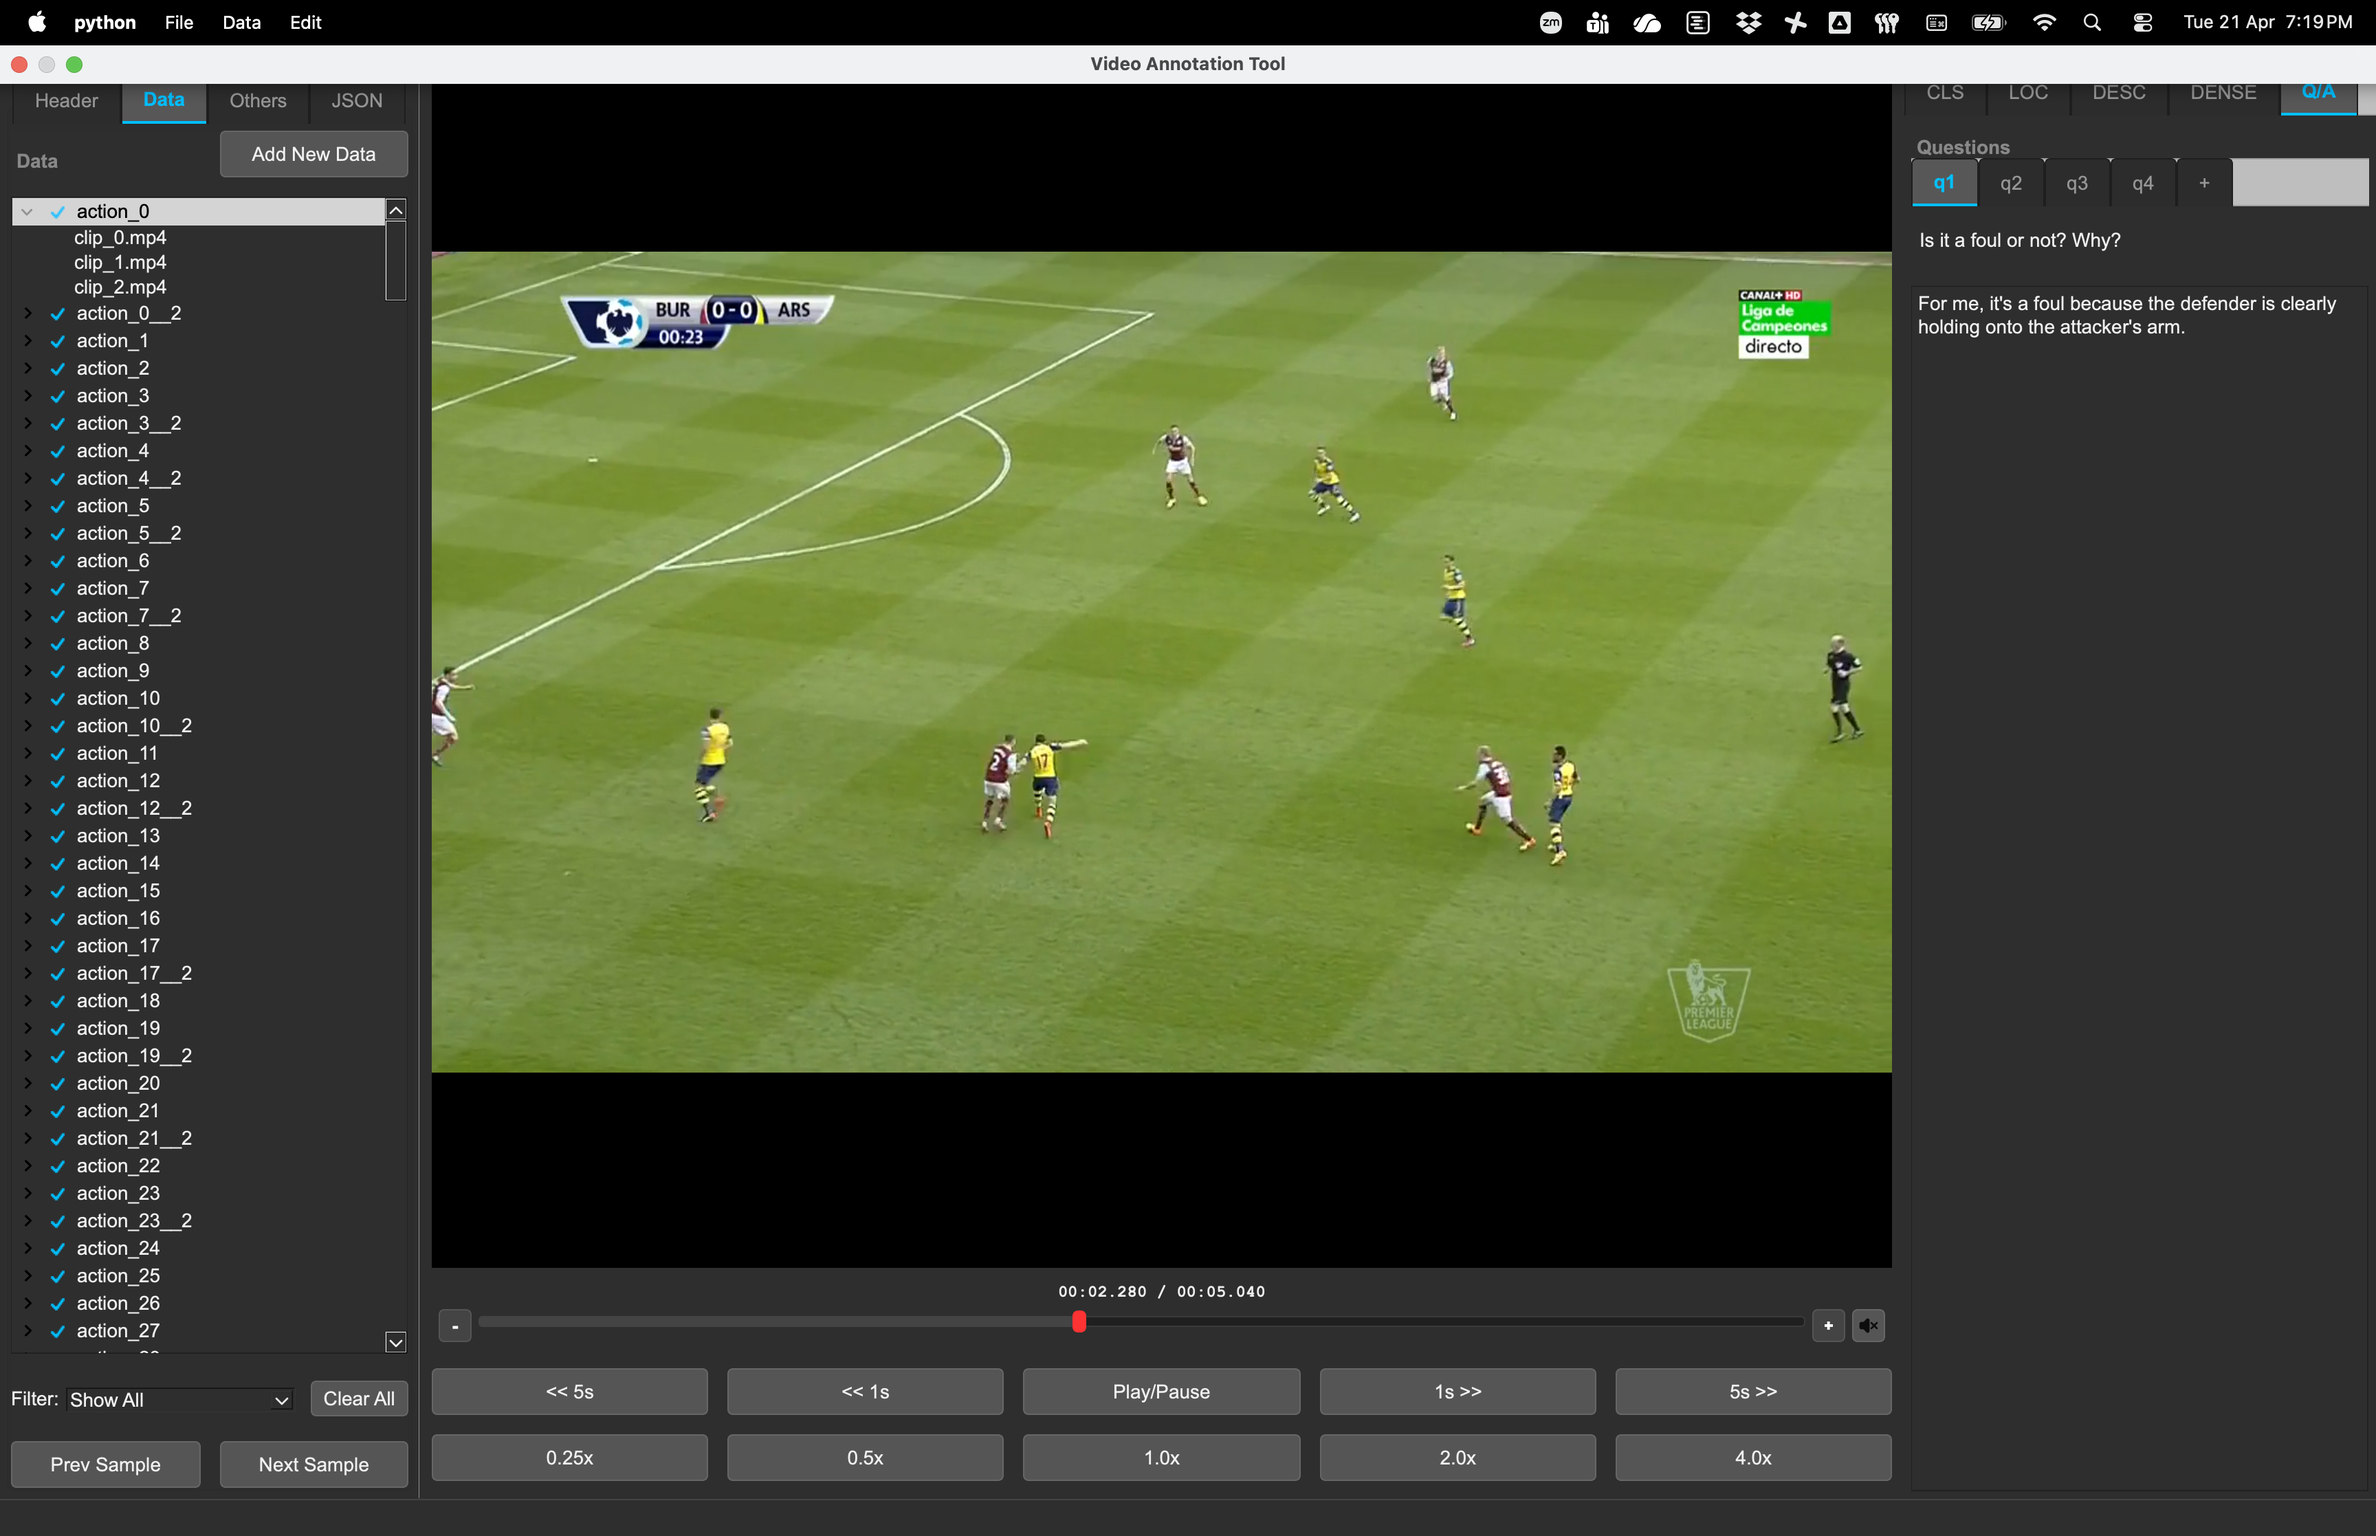
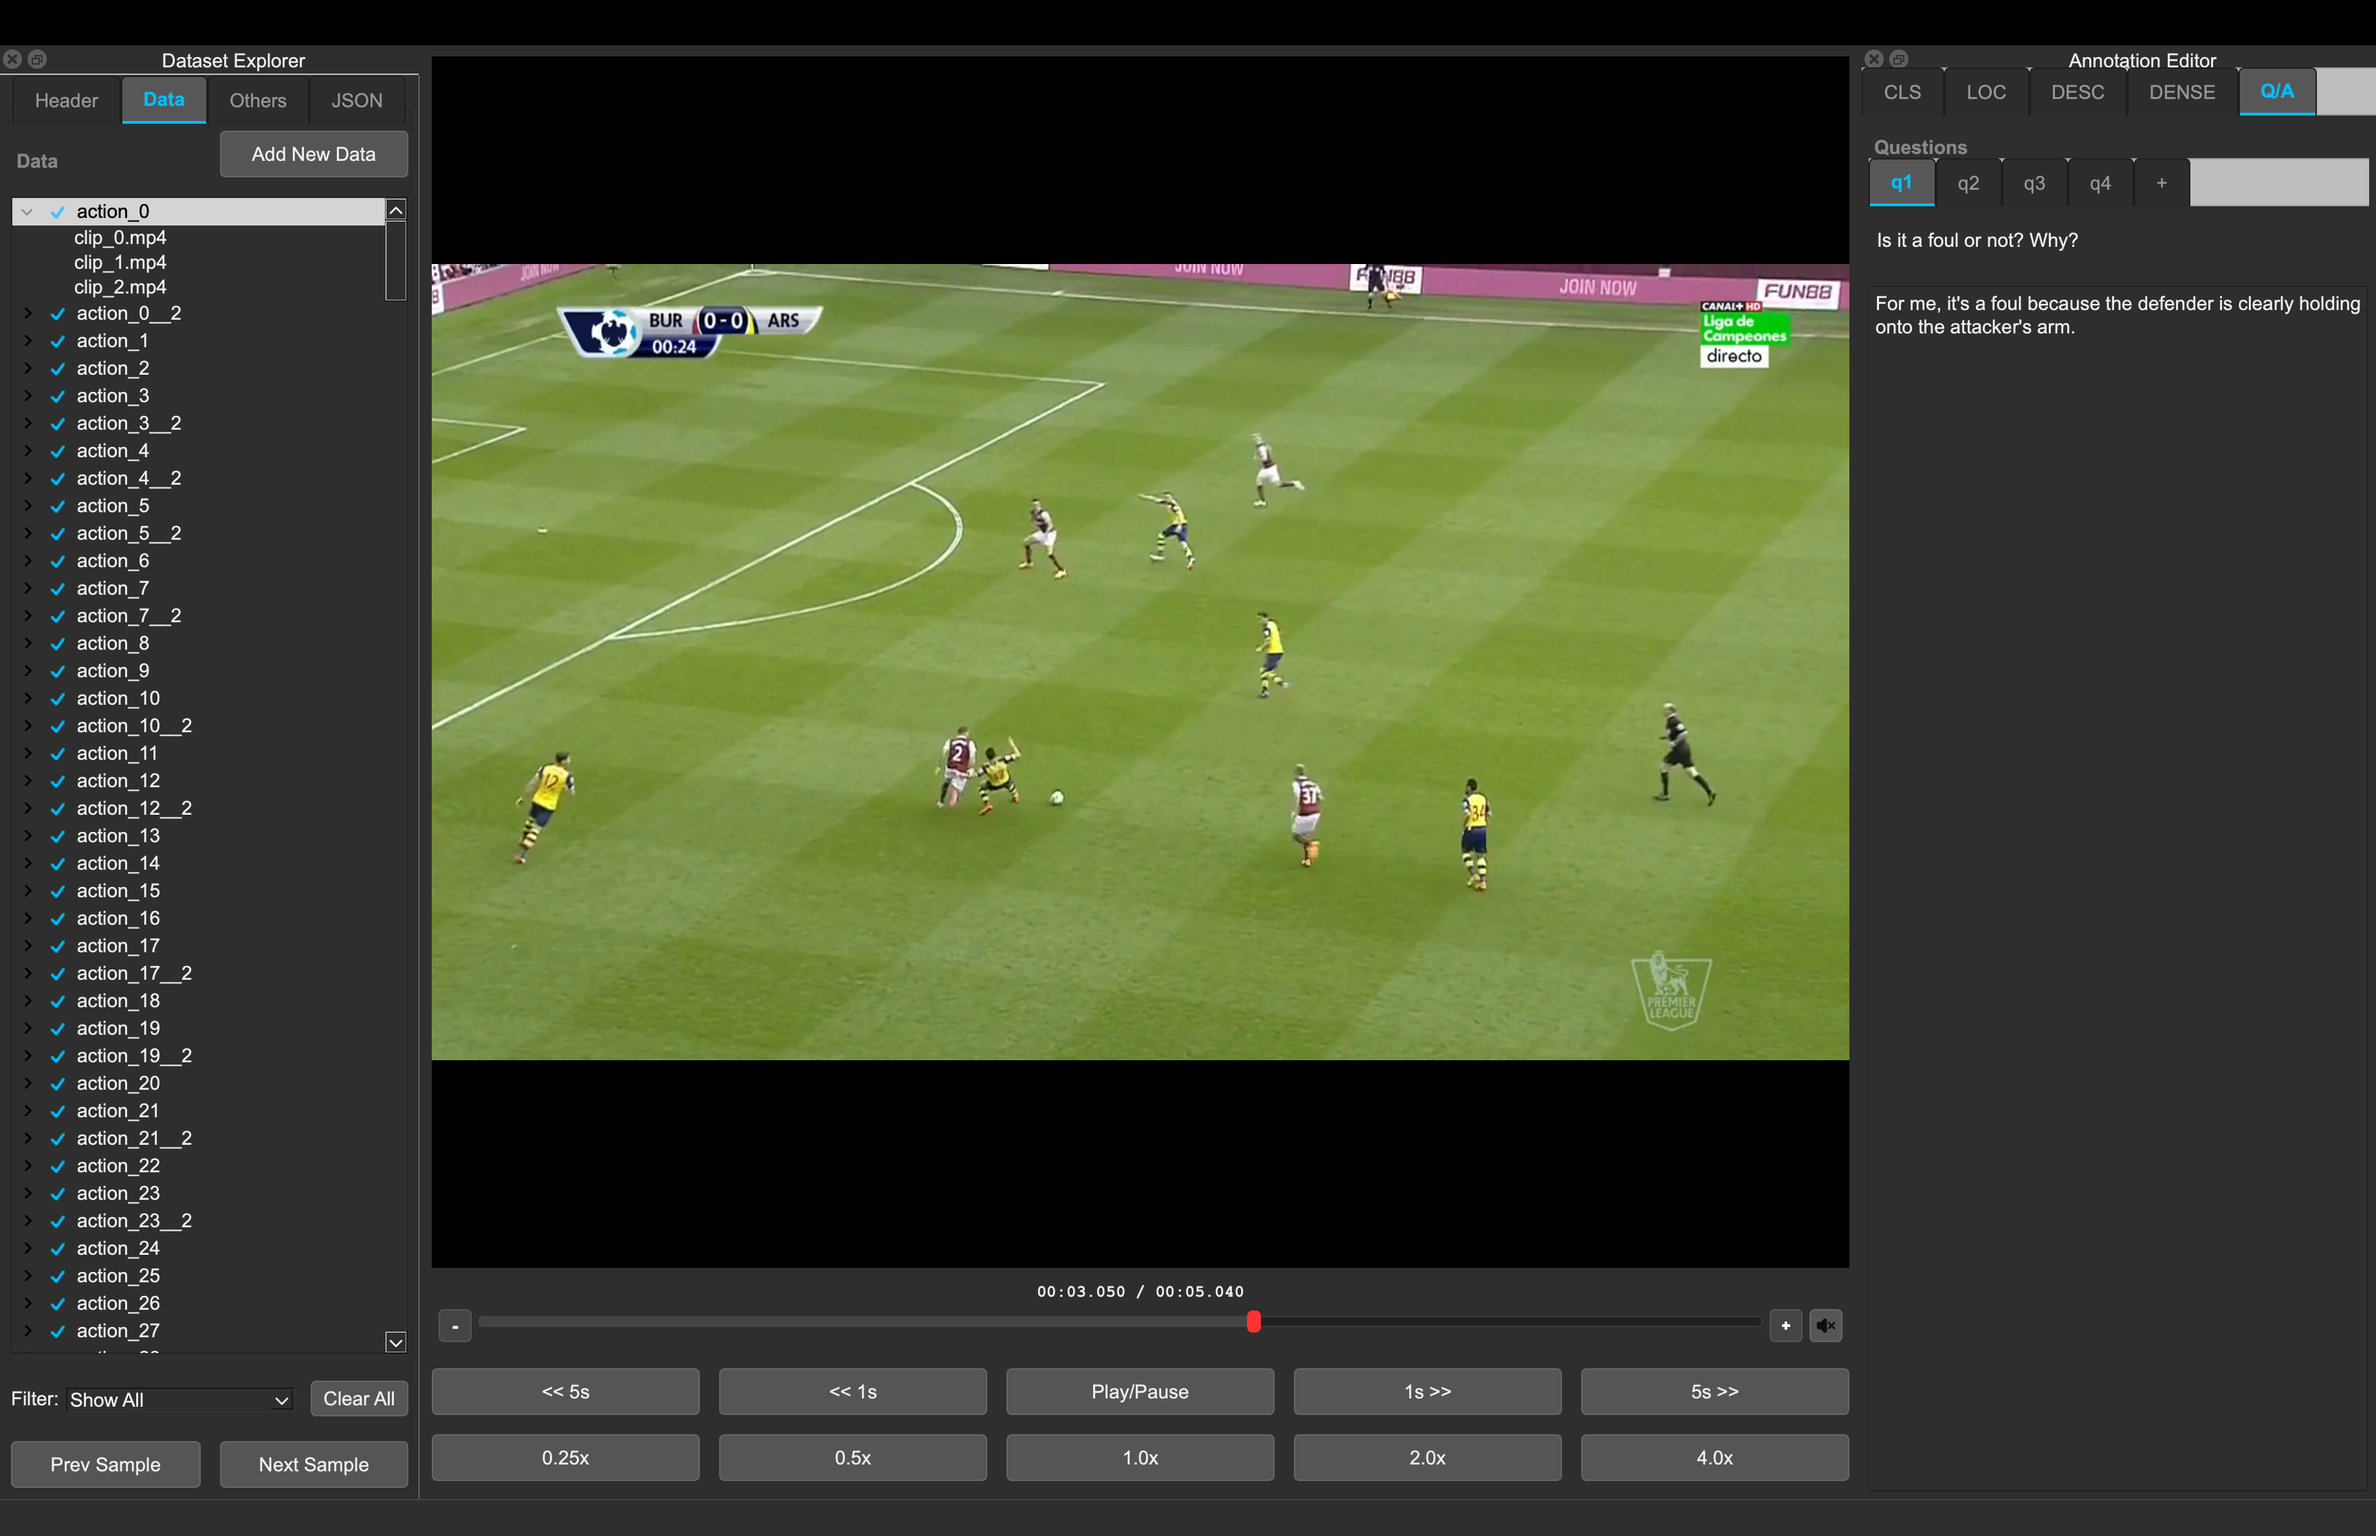
feat: Add application metadata and shortcuts help text; enhance main window with help menu

diff --git a/annotation_tool/main_window.py b/annotation_tool/main_window.py
@@ -6,6 +6,7 @@ from PyQt6.QtCore import Qt, QModelIndex, QTimer
 from PyQt6.QtGui import QColor, QIcon, QKeySequence, QShortcut
 from PyQt6.QtWidgets import QLabel, QDockWidget, QMainWindow, QMessageBox, QStackedWidget, QTabWidget
 
+from app_info import APP_DISPLAY_NAME, APP_VERSION, SHORTCUTS_HELP_TEXT
 from controllers.classification import ClassificationEditorController
 from controllers.hf_transfer_controller import HfTransferController
 from controllers.hf_transfer_service import (
@@ -50,7 +51,7 @@ class VideoAnnotationWindow(QMainWindow):
     def __init__(self) -> None:
         super().__init__()
 
-        self.setWindowTitle("Video Annotation Tool")
+        self.setWindowTitle(APP_DISPLAY_NAME)
         self.resize(1200, 800)
 
         # --- 1. Center Area: Stacked Widget (Welcome vs Media Player) ---
@@ -613,6 +614,16 @@ class VideoAnnotationWindow(QMainWindow):
         self.action_redo.triggered.connect(self.history_manager.perform_redo)
         edit_menu.addAction(self.action_redo)
 
+        help_menu = menu_bar.addMenu("&Help")
+
+        self.action_shortcuts = QAction("Shortcuts", self)
+        self.action_shortcuts.triggered.connect(self._show_shortcuts_popup)
+        help_menu.addAction(self.action_shortcuts)
+
+        self.action_info = QAction("Info", self)
+        self.action_info.triggered.connect(self._show_info_popup)
+        help_menu.addAction(self.action_info)
+
     def _setup_shortcuts(self) -> None:
         """Register common keyboard shortcuts."""
         QShortcut(QKeySequence("Ctrl+O"), self).activated.connect(self._safe_import_annotations)
@@ -622,9 +633,6 @@ class VideoAnnotationWindow(QMainWindow):
             self.dataset_explorer_controller.export_project
         )
 
-        QShortcut(QKeySequence("Ctrl+E"), self).activated.connect(
-            lambda: self.show_temp_msg("Settings", "Settings dialog not implemented yet.")
-        )
         QShortcut(QKeySequence("Ctrl+D"), self).activated.connect(
             self._open_hf_download_dialog
         )
@@ -657,9 +665,11 @@ class VideoAnnotationWindow(QMainWindow):
             lambda: self.media_controller.seek_relative(5000)
         )
 
-        QShortcut(QKeySequence("S"), self).activated.connect(
-            lambda: self.show_temp_msg("Info", "Select an event and edit time via right-click.")
-        )
+    def _show_shortcuts_popup(self) -> None:
+        QMessageBox.information(self, "Shortcuts", SHORTCUTS_HELP_TEXT)
+
+    def _show_info_popup(self) -> None:
+        QMessageBox.information(self, "Info", f"{APP_DISPLAY_NAME}\nVersion: {APP_VERSION}")
 
     # # ---------------------------------------------------------------------
     # # Mode-aware dispatchers (Deprecated?)

diff --git a/tests/gui/test_core_lifecycle.py b/tests/gui/test_core_lifecycle.py
@@ -10,6 +10,8 @@ import pytest
 from PyQt6.QtCore import QModelIndex, Qt
 from PyQt6.QtWidgets import QDialogButtonBox, QMessageBox
 
+from app_info import APP_DISPLAY_NAME, APP_VERSION
+
 
 MODE_TO_TAB_INDEX = {
     "classification": 0,
@@ -334,12 +336,44 @@ def test_smart_filter_is_currently_empty_for_description_and_dense(
 
 
 @pytest.mark.gui
-def test_menu_bar_contains_data_menu_between_file_and_edit(window):
+def test_menu_bar_contains_file_data_edit_help_menus(window):
     menu_names = [action.text().replace("&", "") for action in window.menuBar().actions()]
-    assert menu_names[:3] == ["File", "Data", "Edit"]
+    assert menu_names[:4] == ["File", "Data", "Edit", "Help"]
     assert hasattr(window, "action_hf_download")
     assert hasattr(window, "action_hf_upload")
     assert window.action_hf_upload.isEnabled() is False
+
+
+@pytest.mark.gui
+def test_help_menu_actions_open_shortcuts_and_info_popups(window, monkeypatch):
+    popup_calls = []
+
+    def _fake_information(parent, title, text, *args, **kwargs):
+        popup_calls.append((title, text))
+        return QMessageBox.StandardButton.Ok
+
+    monkeypatch.setattr("main_window.QMessageBox.information", _fake_information)
+
+    assert hasattr(window, "action_shortcuts")
+    assert hasattr(window, "action_info")
+    assert window.action_shortcuts.isEnabled() is True
+    assert window.action_info.isEnabled() is True
+
+    window.action_shortcuts.trigger()
+    window.action_info.trigger()
+
+    assert len(popup_calls) == 2
+
+    shortcuts_title, shortcuts_text = popup_calls[0]
+    info_title, info_text = popup_calls[1]
+
+    assert shortcuts_title == "Shortcuts"
+    assert "Ctrl+S" in shortcuts_text
+    assert "Space" in shortcuts_text
+
+    assert info_title == "Info"
+    assert APP_DISPLAY_NAME in info_text
+    assert f"Version: {APP_VERSION}" in info_text
 
 
 @pytest.mark.gui

diff --git a/annotation_tool/app_info.py b/annotation_tool/app_info.py
@@ -1,0 +1,26 @@
+"""Application-level metadata and static help text."""
+
+APP_DISPLAY_NAME = "Video Annotation Tool"
+APP_VERSION = "v1.2.3"
+
+SHORTCUTS_HELP_TEXT = """Project
+Ctrl+O: Load dataset JSON
+Ctrl+S: Save dataset
+Ctrl+Shift+S: Save dataset as
+Ctrl+D: Open HF download dialog
+Ctrl+U: Open HF upload dialog
+Ctrl/Cmd+Q: Quit
+
+Undo/Redo
+Ctrl/Cmd+Z: Undo
+Ctrl/Cmd+Shift+Z or platform redo key: Redo
+
+Media
+Space: Play/Pause
+Left: Seek backward ~40 ms
+Right: Seek forward ~40 ms
+Ctrl+Left: Seek backward 1 second
+Ctrl+Right: Seek forward 1 second
+Ctrl+Shift+Left: Seek backward 5 seconds
+Ctrl+Shift+Right: Seek forward 5 seconds
+"""

diff --git a/docs/shortcuts.md b/docs/shortcuts.md
@@ -7,7 +7,6 @@
 - `Ctrl+Shift+S`: Save dataset as
 - `Ctrl+D`: Open HF download dialog
 - `Ctrl+U`: Open HF upload dialog
-- `Ctrl+E`: Reserved (settings placeholder)
 - `Ctrl/Cmd+Q`: Quit
 
 ## Undo/Redo
@@ -24,7 +23,3 @@
 - `Ctrl+Right`: Seek forward 1 second
 - `Ctrl+Shift+Left`: Seek backward 5 seconds
 - `Ctrl+Shift+Right`: Seek forward 5 seconds
-
-## Notes
-
-- `S` currently shows an info hint in localization workflows; it does not directly set event time.

diff --git a/docs/index.md b/docs/index.md
@@ -2,7 +2,7 @@
 
 The Video Annotation Tool is a PyQt6 desktop application for loading, editing, and exporting OSL-style sports-video datasets.
 
-![Main GUI Screenshot](assets/localization-UI.png)
+![Main GUI Screenshot](assets/dense-description-UI.png)
 
 ## What You Can Do
 
